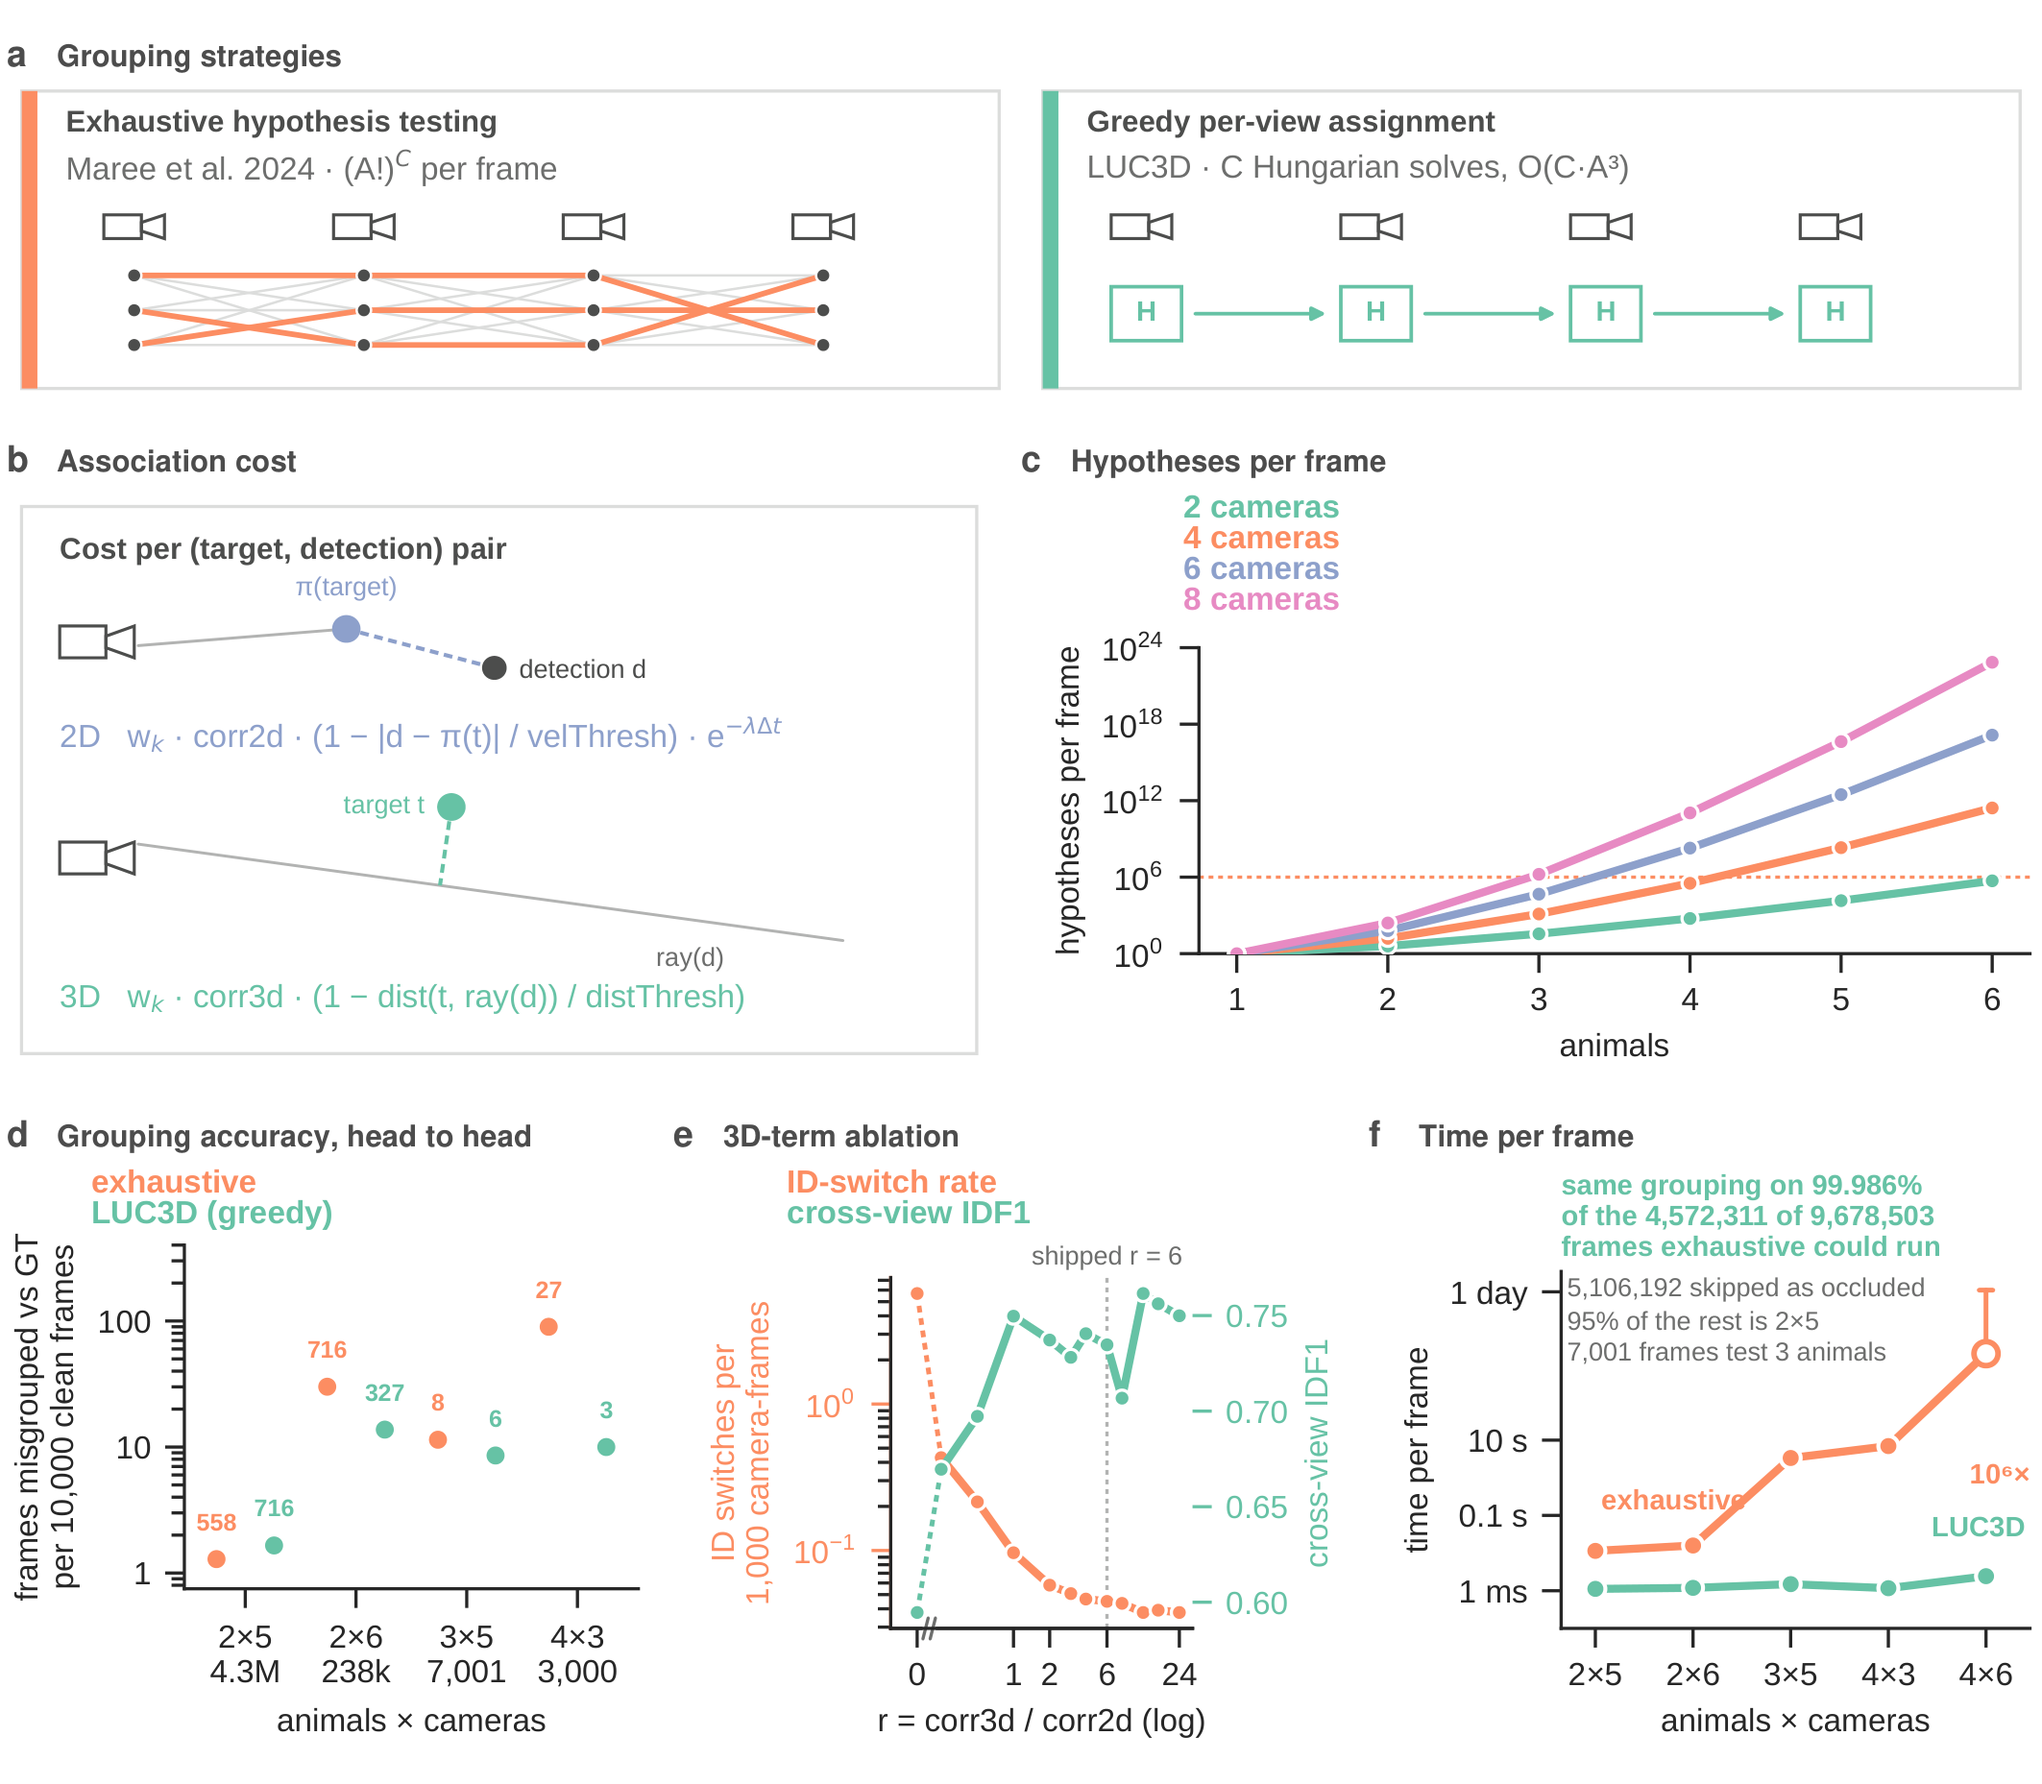
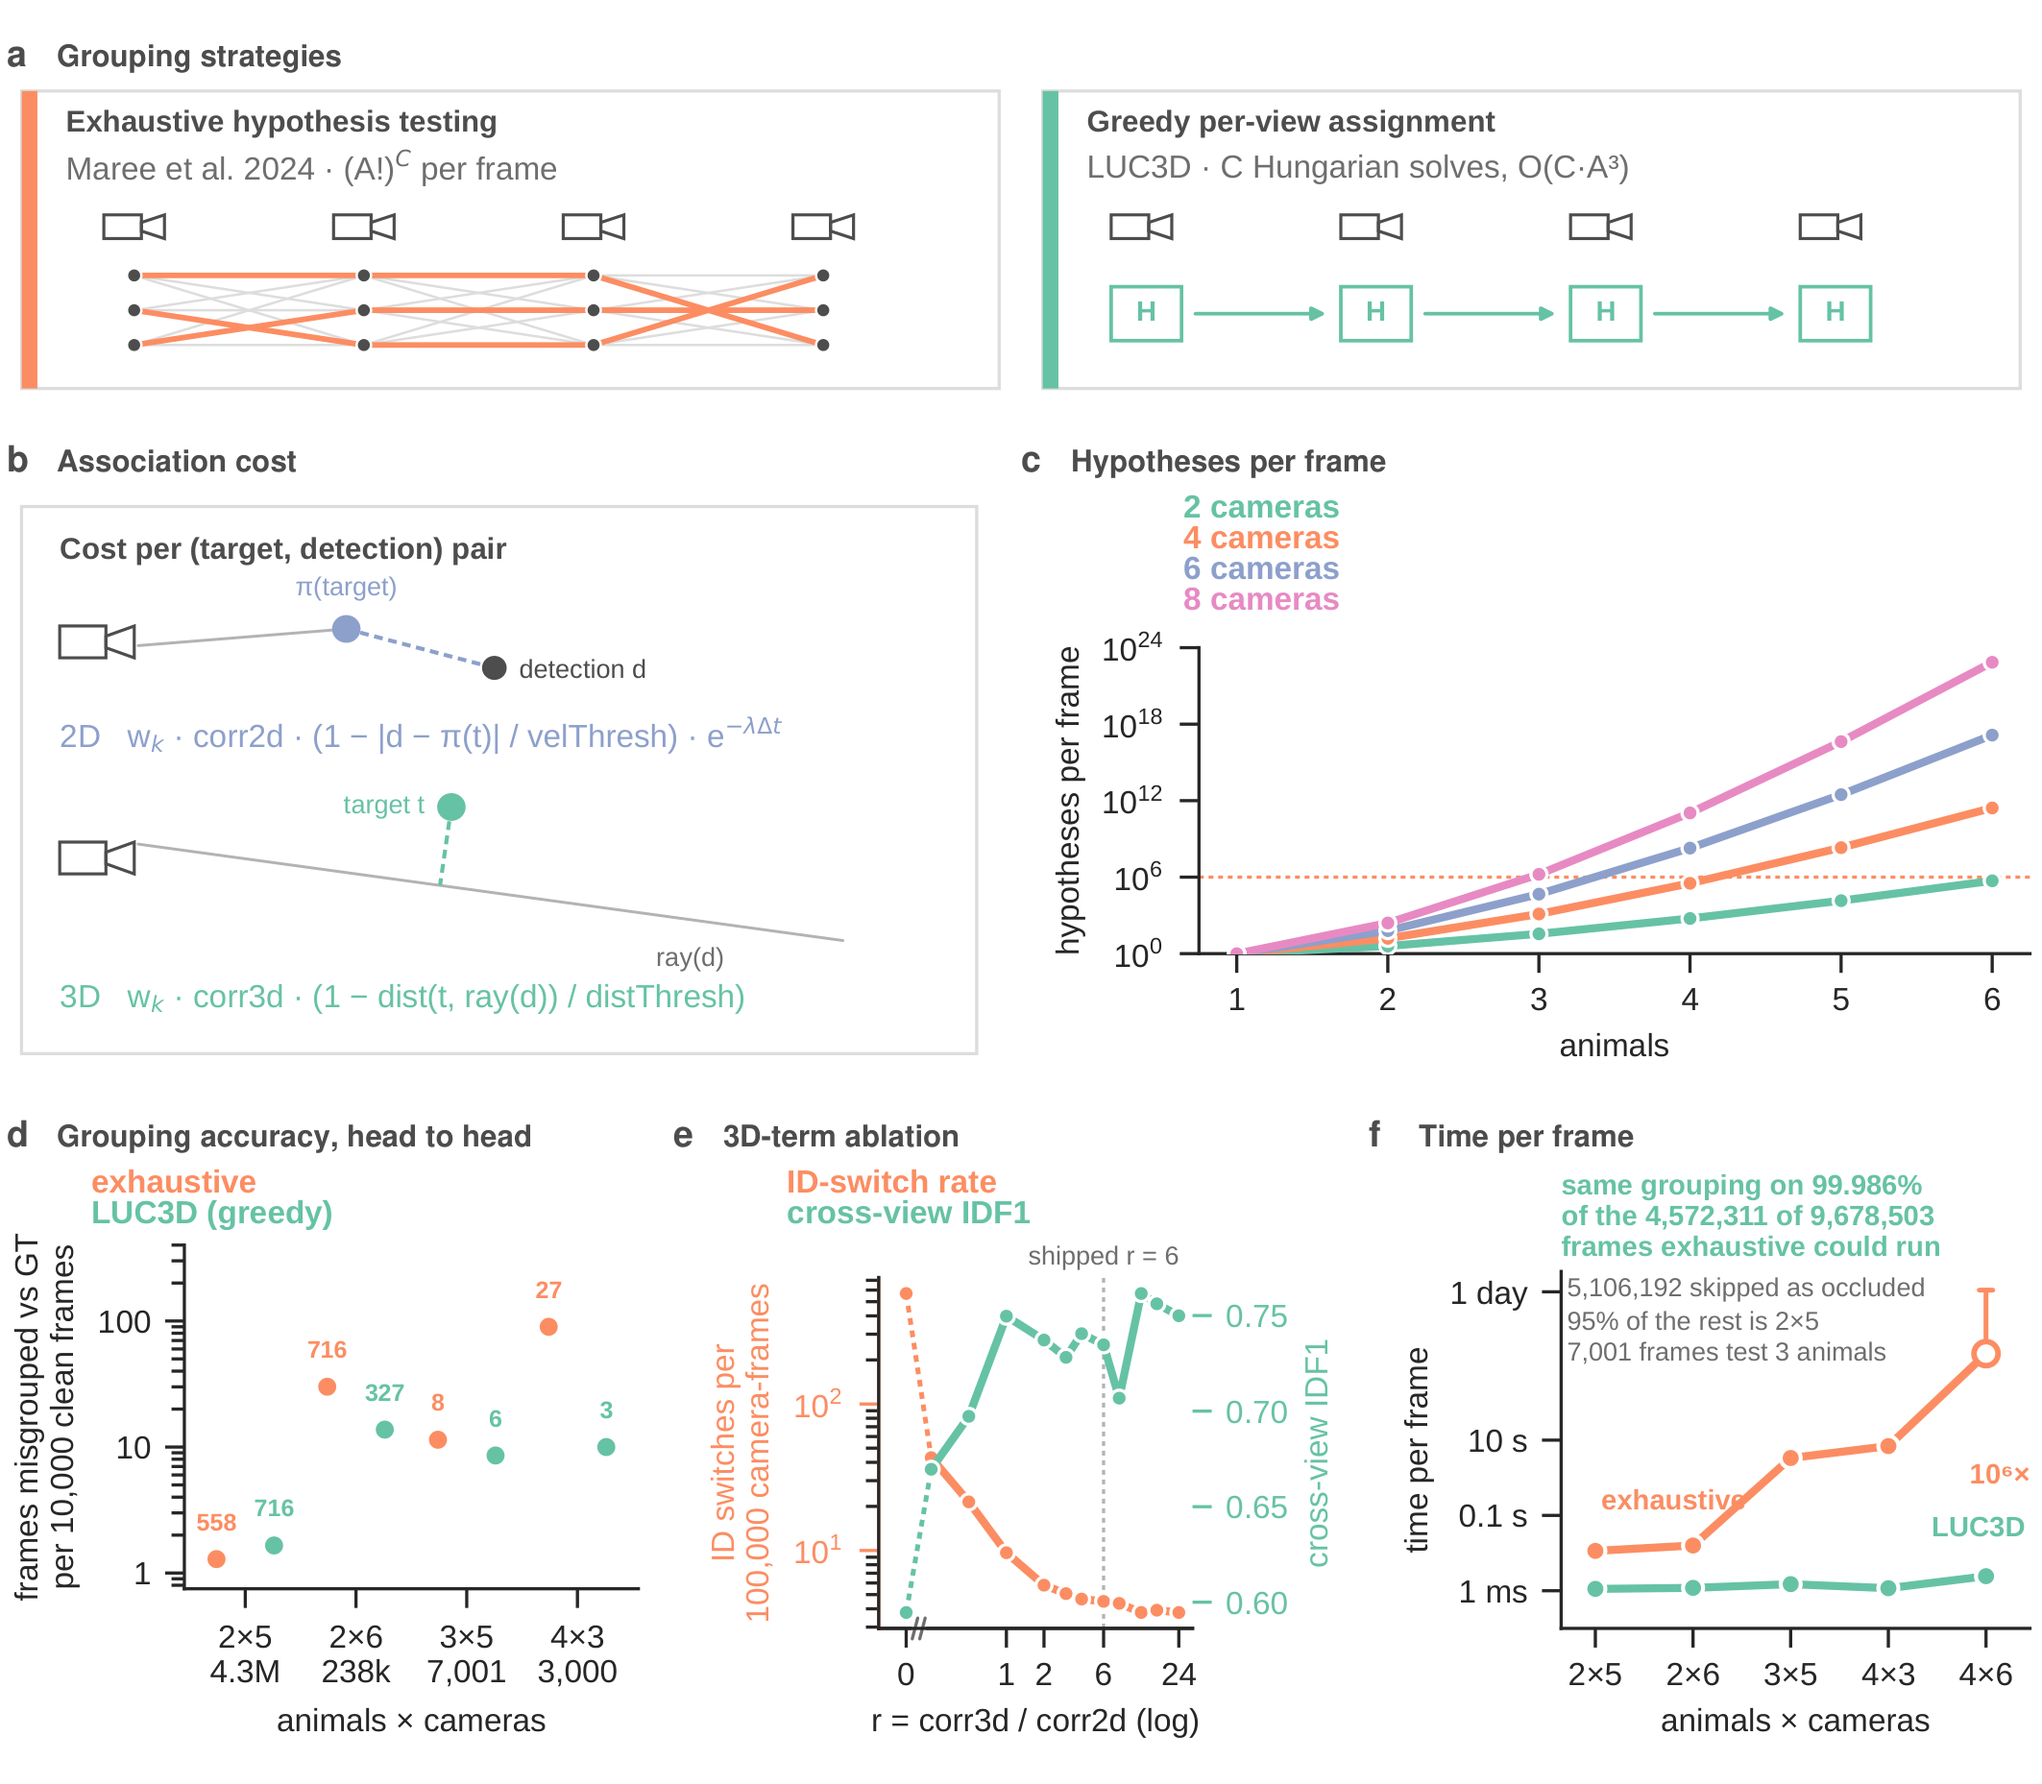
figs: Fig 3e switch rate per 100,000 camera-frames
Was per 1,000, which put the axis in leading zeros: 5.69 down to 0.0378. Per
100,000 the same series is 569 down to 3.8 and the ticks are whole numbers.
The denominator is unchanged at 7,205,370 camera-frames and the raw counts are
still deposited beside the rate; the deposited column is renamed to match.

Methods, Results, the legend and REVISION-LOG carry the new units.

Changed region(s): [[0.3725, 0.6868, 0.5898, 0.9989], [0.4967, 0.8741, 0.5588, 0.9053], [0.3415, 0.8741, 0.3725, 0.9053]]

diff --git a/figs/panels/fig3_05_sweep.py b/figs/panels/fig3_05_sweep.py
@@ -14,8 +14,9 @@ computed by `fig3_sweep.camera_frames()` from the HDF5 shapes (the same expressi
 absent -- run `python3 figs/fig3_sweep.py --denominators`, which re-measures only the
 frame counts and touches neither the tracker runs nor the scoring.
 
-Per 1,000 camera-frames rather than percent because the range is 5.69 down to 0.0378
-per 1,000: as percent those are 0.569% and 0.00378%, i.e. an axis of leading zeros.
+Per 100,000 camera-frames rather than percent or per 1,000: the range is 569 down to
+3.8 per 100,000, which sets on an axis in whole numbers. As percent those are 0.569%
+and 0.0038%, and per 1,000 they are 5.69 and 0.0378 -- both axes of leading zeros.
 The RAW SUMS stay in the deposited CSV, so nothing is lost.
 
 THE SWEEP IS ONE-DIMENSIONAL AND THIS PANEL SAYS SO. The cost function sums a 2D and
@@ -30,7 +31,7 @@ same r. Collapsing onto r turns a flat grid into a curve with a clear knee.
 
 TWO AXES BECAUSE THE TWO METRICS SATURATE AT DIFFERENT POINTS, and that is the
 finding: cross-view IDF1 is flat from r = 1, but the switch rate keeps falling well
-past that -- 5.69 per 1,000 camera-frames with no 3D term at all, 0.0966 at r = 1,
+past that -- 569 per 100,000 camera-frames with no 3D term at all, 9.66 at r = 1,
 0.0466 at r = 4, and a floor of 0.0378 from r = 12. IDF1 alone would say "anything
 >= 1 is fine"; the switch rate says where it actually stops improving. The shipped
 r = 6 (0.0450) sits comfortably past both knees.
@@ -54,7 +55,7 @@ decades is exactly what a log axis is for. Every sampled r is still visible: eac
 drawn with its own marker.
 
 r = 0 IS OFF A LOG AXIS, SO IT GETS A BREAK. r = 0 is the "no 3D term at all"
-control the handoff asked for and the point of the panel (5.69 switches per 1,000
+control the handoff asked for and the point of the panel (569 switches per 100,000
 camera-frames without it, 151x the shipped ratio's rate), so it cannot be dropped
 just because log(0) is undefined. It is drawn in a
 slot to the left of the log region, its tick labelled `0`, with an explicit break
@@ -84,7 +85,7 @@ from src.style import (MUTED, GREY, SALMON, TEAL, deposit, footnote, panel,  # n
 METRIC = "idf1_cross"
 
 #: Rate basis for ID switches. See the docstring for why not percent.
-PER = 1_000
+PER = 100_000
 
 #: The app's shipped ratio (corr2d 1.0, corr3d 6.0 -> r = 6).
 SHIPPED_R = 6.0
@@ -135,7 +136,7 @@ def build() -> pd.DataFrame:
     # Raw sum AND rate in the deposit, with the denominator alongside, so the CSV
     # is checkable by division.
     out["camera_frames"] = tcf
-    out["switches_per_1k_camera_frames"] = out.switches / tcf * PER
+    out["switches_per_100k_camera_frames"] = out.switches / tcf * PER
     return out
 
 
@@ -182,7 +183,7 @@ def main():
     # The denominator is IN the axis label -- the footnote is no longer drawn
     # (src.style.footnote reports to the build log), so a unit that lives only
     # there would not reach the reader.
-    ax.set_ylabel("ID switches per\n1,000 camera-frames", color=SALMON)
+    ax.set_ylabel("ID switches per\n100,000 camera-frames", color=SALMON)
     ax.tick_params(axis="y", colors=SALMON)
     ax.spines["left"].set_color(SALMON)
 

diff --git a/figs/REVISION-LOG.md b/figs/REVISION-LOG.md
@@ -76,7 +76,7 @@ differ by three orders of magnitude, so equal counts are wildly unequal rates. T
 values that motivated the change are superseded by the corpus-scale re-run in section 8
 below; see that table for the current ones.
 
-**Figure 3E** now plots identity switches per 1,000 camera-frames. The denominator was
+**Figure 3E** now plots identity switches per 100,000 camera-frames. The denominator was
 not in the deposit and was added: **7,205,370 camera-frames**, reproduced per camera and
 session from the same `min(gt_frames, det_frames)` rule the scorer uses, read from HDF5
 shapes only. A new `python3 figs/fig3_sweep.py --denominators` mode re-measures only the
@@ -84,15 +84,15 @@ frame counts and merges them into the existing JSON; no tracker run and no re-sc
 The panel exits rather than drawing if the key is absent, so the rate cannot silently
 revert to an assumed denominator.
 
-| weight ratio r | switches | per 1,000 camera-frames |
+| weight ratio r | switches | per 100,000 camera-frames |
 |---|---|---|
-| 0 | 40,984 | 5.688 |
-| 0.5 | 1,548 | 0.2148 |
-| 1 | 696 | 0.0966 |
-| 2 | 418 | 0.0580 |
-| 6 (shipped) | 324 | 0.0450 |
-| 12 | 272 | 0.0377 |
-| 24 | 272 | 0.0377 |
+| 0 | 40,984 | 568.8 |
+| 0.5 | 1,548 | 21.5 |
+| 1 | 696 | 9.7 |
+| 2 | 418 | 5.8 |
+| 6 (shipped) | 324 | 4.5 |
+| 12 | 272 | 3.8 |
+| 24 | 272 | 3.8 |
 
 **Figure 7E** already reported percentages of camera-frames (denominator 11,726,640) and
 was left alone.

diff --git a/figs/RESULTS.md b/figs/RESULTS.md
@@ -106,11 +106,11 @@ Figure 3E asks what the three-dimensional term in the association cost contribut
 sweeping it against the two-dimensional term over 24 combinations on eight complete
 sessions. The two weights turn out to matter only through their ratio: every pair of
 combinations sharing a ratio returns identical scores. The term is necessary. With it
-switched off entirely, identity switches run at 5.69 per 1,000 camera-frames and
+switched off entirely, identity switches run at 569 per 100,000 camera-frames and
 cross-view IDF1 falls to 0.595. Bringing the term up to parity with the two-dimensional
-one removes 98 per cent of those switches, leaving 0.097 per 1,000, and lifts IDF1 to
+one removes 98 per cent of those switches, leaving 9.7 per 100,000, and lifts IDF1 to
 0.750. Beyond parity the two metrics behave differently: the switch rate continues to
-fall slowly, reaching 0.038 per 1,000 at the largest weights tested, while IDF1 varies
+fall slowly, reaching 3.8 per 100,000 at the largest weights tested, while IDF1 varies
 between 0.71 and 0.76 without a clear trend. Rates are over the 7,205,370 camera-frames
 of the eight sessions, and the raw counts, 40,984 falling to 272, are deposited
 alongside them. The

diff --git a/figs/FIGURE-LEGENDS.md b/figs/FIGURE-LEGENDS.md
@@ -96,8 +96,8 @@ Agreement between the methods falls monotonically with animal count: 99.996%, 99
 99.829% and 99.000% for 2 x 5, 2 x 6, 3 x 5 and 4 x 3.
 
 E) Ablation of LUC3D against itself: 24 combinations of the two cost weights, which
-collapse onto their ratio r = corr3d/corr2d. Cross-view IDF1 (right axis) and summed
-within-view ID switches (left axis, log scale). r = 0, the 3D term switched off, sits
+collapse onto their ratio r = corr3d/corr2d. Cross-view IDF1 (right axis) and within-view ID switches per 100,000 camera-frames
+(left axis, log scale; denominator 7,205,370). r = 0, the 3D term switched off, sits
 left of the axis break. The shipped default, r = 6, is marked.
 
 F) Measured time per frame for both methods on identical detections. The 4-animal,

diff --git a/figs/METHODS.md b/figs/METHODS.md
@@ -148,7 +148,7 @@ run on eight complete BMimica sessions, every frame, with identical detections. 
 that share a ratio of the two weights return identical IDF1 values and identical switch
 counts, and this collapse was verified rather than assumed, which is why the panel plots
 the ratio rather than the two weights separately. Switch counts are reported as a rate
-per 1,000 camera-frames rather than as a total, because a total is uninterpretable
+per 100,000 camera-frames rather than as a total, because a total is uninterpretable
 without its denominator; the denominator is 7,205,370 camera-frames, taken per camera
 and session from the same frame counts the scorer uses, and both the rate and the raw
 count are deposited.
